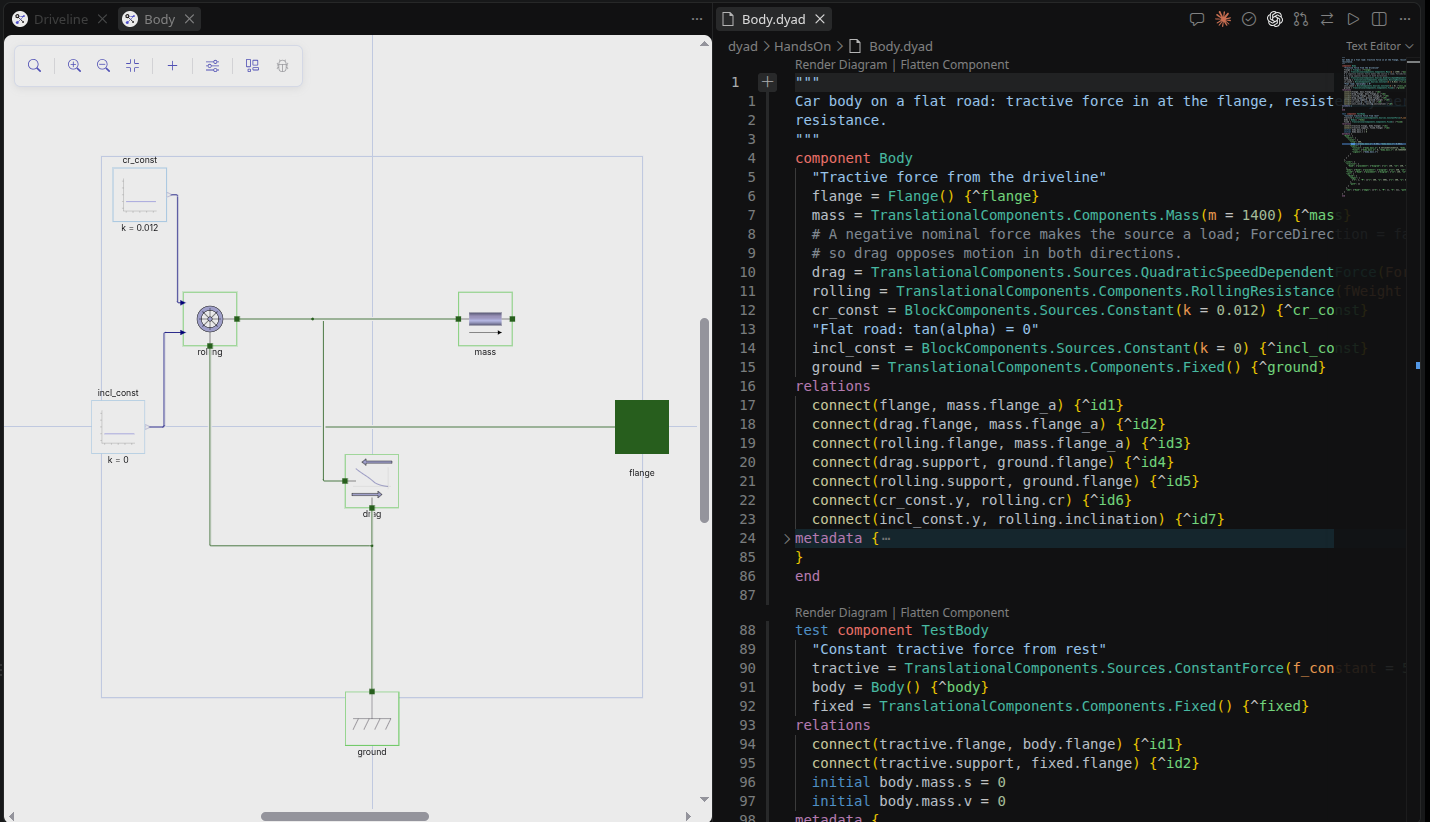
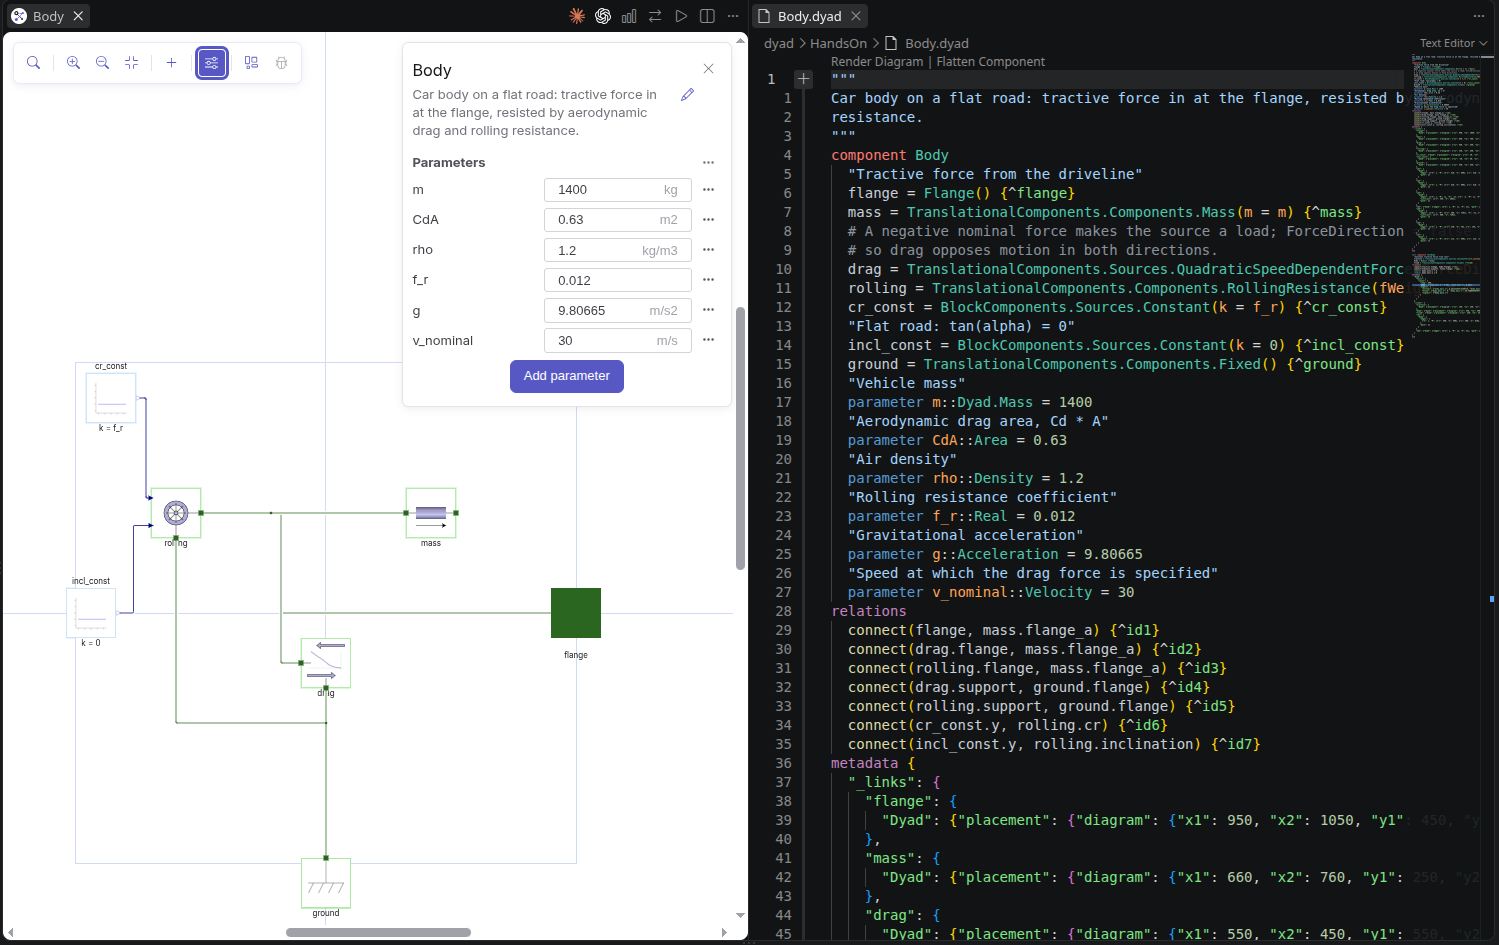
docs(handson): retake the screenshots of the models that gained parameters
Six screenshots showed numbers typed into the parts where the models now pass named
parameters. The retakes show the current code with each component's parameter panel open, so
the Add parameter button the steps refer to is visible on the page.

diff --git a/docs/handson/lecture-01/index.html b/docs/handson/lecture-01/index.html
@@ -281,8 +281,8 @@ end</code></pre></div>
     <strong>parameters</strong>, two more <strong>parts</strong> (a limiter and a torque source), and three
     <strong>ports</strong> so other components can plug into it. Then a small test bench drives it.</p>
   <figure class="shot-img">
-    <a href="img/step02-engine-finished.png"><img src="img/step02-engine-finished.png" style="max-width:560px" alt="The finished Engine diagram: tau_cmd input on the left, then delay, lag, limiter and torque blocks in a row, the spline port on the right and the support port at the bottom." loading="lazy"></a>
-    <figcaption>The finished <code>Engine</code>: <code>tau_cmd</code> → <code>delay</code> → <code>lag</code> → <code>limiter</code> → <code>torque</code> → <code>spline</code>, with <code>torque</code>'s support down to <code>support</code>. The two blocks you already have are the second and third.</figcaption>
+    <a href="img/step02-engine-finished.png"><img src="img/step02-engine-finished.png" style="max-width:560px" alt="The finished Engine diagram: tau_cmd input on the left, then delay, lag, limiter and torque blocks in a row, the spline port on the right and the support port at the bottom; the Engine panel at top right lists the parameters theta_e, tau_e and T_max above an Add parameter button." loading="lazy"></a>
+    <figcaption>The finished <code>Engine</code>: <code>tau_cmd</code> → <code>delay</code> → <code>lag</code> → <code>limiter</code> → <code>torque</code> → <code>spline</code>, with <code>torque</code>'s support down to <code>support</code>. The two blocks you already have are the second and third. Top right is <code>Engine</code>'s own panel — click an empty spot of the canvas to open it — with the three parameters of stage B and the <strong>Add parameter</strong> button.</figcaption>
   </figure>
 
   <h3>A · Open your Engine</h3>
@@ -479,7 +479,7 @@ end</code></pre></div>
   <h3>What you are building</h3>
   <figure class="shot-img">
     <a href="img/step03-driveline.png"><img src="img/step03-driveline.png" alt="Driveline diagram: spline into an ideal gear, then an ideal rolling wheel out to the flange, with both supports brought out." loading="lazy"></a>
-    <figcaption>The finished <code>Driveline</code>. Rotational ports are gray circles and translational ports are green squares: the rolling wheel is where one becomes the other.</figcaption>
+    <figcaption>The finished <code>Driveline</code>, its panel listing the parameters <code>i</code> and <code>r</code> that the parts use. Rotational ports are gray circles and translational ports are green squares: the rolling wheel is where one becomes the other.</figcaption>
   </figure>
   <h3>Do this</h3>
   <ol class="actions">
